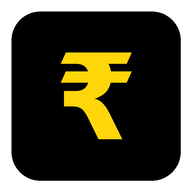
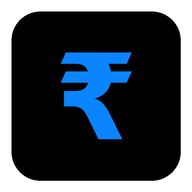
Redesign Tap as a stepped native-style flow; switch accent to blue
The Tap tab now mirrors the iOS Shortcuts add-expense dialogs as a
three-step flow:
  1. "How much did you spend?" — amount field + keypad, Cancel/Next
  2. "Choose a category" — full vertical list with emoji + dividers
  3. "Add a note (optional)" — note field, recap, payment method,
     Credit toggle, receipt attach, Back/Done

Accent switched from yellow to iOS blue (#0A84FF) throughout: tokens,
selected states, buttons, nav, charts and the spend heatmap; a new
--on-accent token keeps text legible on blue fills. App icons
regenerated with a blue ₹.

In-flow keyword auto-detect is dropped (category is now an explicit
step); the Back Tap deep-link still matches/creates categories. Bumps
the service-worker cache to spend-v4.

Claude-Session: https://claude.ai/code/session_01RHJkLpLJcnZQaAFJ6zpLv4

Changed region(s): [[0.3125, 0.25, 0.6875, 0.75]]

diff --git a/docs/index.html b/docs/index.html
@@ -24,8 +24,9 @@
     --text: #FFFFFF;
     --dim: #A1A1A1;
     --faint: #6B6B6B;
-    --accent: #FFD60A;
-    --accent-dim: #4a4210;
+    --accent: #0A84FF;
+    --accent-dim: rgba(10,132,255,.22);
+    --on-accent: #FFFFFF;
     --credit: #32D74B;
     --danger: #FF453A;
     --track: #1C1C1C;
@@ -70,9 +71,9 @@
   .nav button.active { color: var(--accent); }
   .nav .tapbtn .ring { width: 44px; height: 44px; border-radius: 50%; display: flex; align-items: center; justify-content: center; background: var(--surface-alt); transition: background .18s, box-shadow .18s; margin-top: -2px; }
   .nav .tapbtn svg { width: 26px; height: 26px; }
-  .nav .tapbtn.active .ring { background: var(--accent); box-shadow: 0 0 0 4px var(--accent-dim), 0 8px 20px -6px rgba(255,214,10,.5); }
+  .nav .tapbtn.active .ring { background: var(--accent); box-shadow: 0 0 0 4px var(--accent-dim), 0 8px 20px -6px rgba(10,132,255,.5); }
   .nav .tapbtn.active { color: var(--accent); }
-  .nav .tapbtn.active .ring svg { stroke: #000; }
+  .nav .tapbtn.active .ring svg { stroke: var(--on-accent); }
 
   /* generic */
   .h-title { font-size: 30px; font-weight: 800; letter-spacing: -.02em; margin: 0; }
@@ -90,21 +91,46 @@
   .empty .s { font-size: 14px; margin-top: 4px; }
   .sec { color: var(--dim); font-size: 13px; font-weight: 800; text-transform: uppercase; letter-spacing: .06em; margin: 26px 2px 12px; display: flex; justify-content: space-between; align-items: center; }
 
-  /* TAP */
-  .tap { flex: 1; display: flex; flex-direction: column; }
-  .tap-top { padding: calc(env(safe-area-inset-top) + 14px) 18px 0; text-align: center; }
-  .tap-top .q { color: var(--dim); font-size: 15px; font-weight: 600; }
-  .amount { display: flex; align-items: center; justify-content: center; gap: 4px; margin: 6px 0 2px; }
-  .amount .cur { font-size: 32px; font-weight: 700; color: var(--dim); }
-  .amount .val { font-size: 54px; font-weight: 800; letter-spacing: -.03em; font-variant-numeric: tabular-nums; line-height: 1; }
-  .amount.credit .val, .amount.credit .cur { color: var(--credit); }
-  .amount.zero .val, .amount.zero .cur { color: var(--faint); }
+  /* TAP — stepped native-dialog flow */
+  .flow { flex: 1; display: flex; flex-direction: column; }
+  .flow-body { padding: calc(env(safe-area-inset-top) + 22px) 20px 0; }
+  .flow-body.scroll { flex: 1; overflow-y: auto; scrollbar-width: none; }
+  .flow-body.scroll::-webkit-scrollbar { display: none; }
+  .stepdots { display: flex; gap: 6px; justify-content: center; margin-bottom: 20px; }
+  .stepdots i { width: 7px; height: 7px; border-radius: 50%; background: var(--border); transition: .25s; }
+  .stepdots i.on { background: var(--accent); width: 20px; }
+  .flow-title { font-size: 25px; font-weight: 800; text-align: center; letter-spacing: -.02em; margin: 0 0 20px; text-wrap: balance; }
+  .amount-field { background: var(--surface-alt); border-radius: 16px; padding: 22px 18px; display: flex; align-items: center; justify-content: center; gap: 6px; }
+  .amount-field .cur { font-size: 28px; font-weight: 700; color: var(--dim); }
+  .amount-field .val { font-size: 46px; font-weight: 800; letter-spacing: -.02em; font-variant-numeric: tabular-nums; line-height: 1; }
+  .amount-field.zero .val, .amount-field.zero .cur { color: var(--faint); }
+  .amount-field.credit .val, .amount-field.credit .cur { color: var(--credit); }
+  .flow-bottom { margin-top: auto; padding: 12px 14px 4px; }
+  .flow-actions { display: flex; gap: 10px; margin-top: 12px; }
+  .pill { flex: 1; padding: 15px; border-radius: 14px; border: none; font-size: 16px; font-weight: 800; cursor: pointer; transition: opacity .18s, transform .08s; }
+  .pill:active { transform: scale(.99); }
+  .pill.ghost { background: var(--surface-alt); color: var(--text); }
+  .pill.blue { background: var(--accent); color: var(--on-accent); }
+  .pill.blue:disabled { opacity: .4; cursor: default; }
+  .cat-list { display: flex; flex-direction: column; background: var(--surface-alt); border-radius: 16px; overflow: hidden; }
+  .cat-item { display: flex; align-items: center; gap: 14px; padding: 15px 16px; background: none; border: none; border-bottom: 1px solid var(--border); color: var(--text); font-size: 17px; font-weight: 600; cursor: pointer; text-align: left; width: 100%; }
+  .cat-item:last-child { border-bottom: none; }
+  .cat-item:active { background: var(--elev); }
+  .cat-item .ci { font-size: 22px; width: 26px; text-align: center; flex: none; }
+  .cat-item .cn { flex: 1; min-width: 0; }
+  .cat-item.sel { color: var(--accent); }
+  .cat-item .chk { color: var(--accent); font-weight: 800; font-size: 18px; }
+  .flow-input { width: 100%; background: var(--surface-alt); border: none; border-radius: 16px; color: var(--text); font-size: 18px; padding: 18px; }
+  .flow-input::placeholder { color: var(--faint); }
+  .flow-recap { display: flex; align-items: center; justify-content: center; gap: 8px; color: var(--dim); font-size: 14px; margin-top: 18px; }
+  .flow-recap b { color: var(--text); font-weight: 700; }
+  .flow-recap .em { font-size: 18px; }
 
   .chips { display: flex; gap: 9px; overflow-x: auto; padding: 6px 18px 2px; scrollbar-width: none; scroll-snap-type: x proximity; }
   .chips::-webkit-scrollbar { display: none; }
   .chip { flex: none; scroll-snap-align: start; display: flex; align-items: center; gap: 7px; background: var(--surface); border: 1.5px solid var(--border); color: var(--dim); padding: 9px 15px; border-radius: 999px; font-size: 14px; font-weight: 600; cursor: pointer; white-space: nowrap; transition: border-color .16s, color .16s, background .16s; }
   .chip .e { font-size: 17px; }
-  .chip.sel { border-color: var(--accent); color: var(--text); background: var(--surface-alt); box-shadow: 0 0 0 3px var(--accent-dim), 0 0 14px -2px rgba(255,214,10,.35); }
+  .chip.sel { border-color: var(--accent); color: var(--text); background: var(--surface-alt); box-shadow: 0 0 0 3px var(--accent-dim), 0 0 14px -2px rgba(10,132,255,.45); }
 
   .noterow { padding: 10px 18px 0; display: flex; gap: 8px; align-items: center; }
   .noteinput { flex: 1; background: var(--surface); border: 1px solid var(--border); border-radius: 12px; color: var(--text); font-size: 15px; padding: 12px 14px; }
@@ -138,7 +164,7 @@
   .key.fn { color: var(--dim); }
   .key svg { width: 26px; height: 26px; stroke: currentColor; fill: none; stroke-width: 2; stroke-linecap: round; stroke-linejoin: round; }
 
-  .save-btn { width: 100%; margin-top: 10px; padding: 16px; border-radius: 16px; border: none; background: var(--accent); color: #000; font-size: 17px; font-weight: 800; cursor: pointer; display: flex; align-items: center; justify-content: center; gap: 8px; transition: opacity .18s, transform .08s; }
+  .save-btn { width: 100%; margin-top: 10px; padding: 16px; border-radius: 16px; border: none; background: var(--accent); color: var(--on-accent); font-size: 17px; font-weight: 800; cursor: pointer; display: flex; align-items: center; justify-content: center; gap: 8px; transition: opacity .18s, transform .08s; }
   .save-btn:active { transform: scale(.99); }
   .save-btn.credit { background: var(--credit); color: #04220c; }
   .save-btn:disabled { opacity: .3; cursor: default; }
@@ -150,7 +176,7 @@
   .searchbox input::placeholder { color: var(--faint); }
   .filters { display: flex; gap: 8px; margin-top: 14px; }
   .filter { flex: 1; border: 1px solid var(--border); background: var(--surface); color: var(--dim); padding: 9px 4px; border-radius: 999px; font-size: 13px; font-weight: 700; cursor: pointer; transition: .16s; }
-  .filter.sel { background: var(--accent); border-color: var(--accent); color: #000; }
+  .filter.sel { background: var(--accent); border-color: var(--accent); color: var(--on-accent); }
   .daygroup { margin-top: 22px; }
   .dayhead { display: flex; align-items: baseline; justify-content: space-between; margin-bottom: 10px; padding: 0 2px; }
   .dayhead .d { color: var(--dim); font-size: 12px; font-weight: 800; letter-spacing: .07em; }
@@ -180,7 +206,7 @@
   /* ANALYTICS */
   .seg { display: flex; gap: 6px; background: var(--surface); border: 1px solid var(--border); border-radius: 12px; padding: 4px; margin-top: 16px; }
   .seg button { flex: 1; border: none; background: none; color: var(--dim); font-size: 13px; font-weight: 700; padding: 8px 4px; border-radius: 9px; cursor: pointer; transition: .16s; }
-  .seg button.sel { background: var(--accent); color: #000; }
+  .seg button.sel { background: var(--accent); color: var(--on-accent); }
   .bigstat { text-align: center; margin: 22px 0 6px; }
   .bigstat .l { color: var(--dim); font-size: 12px; font-weight: 700; letter-spacing: .08em; text-transform: uppercase; }
   .bigstat .v { font-size: 44px; font-weight: 800; letter-spacing: -.02em; font-variant-numeric: tabular-nums; margin-top: 4px; }
@@ -199,7 +225,7 @@
   .chart { display: flex; align-items: flex-end; gap: 7px; height: 130px; padding: 0 2px; }
   .chart .col { flex: 1; display: flex; flex-direction: column; align-items: center; justify-content: flex-end; height: 100%; }
   .chart .col .b { width: 68%; min-width: 6px; border-radius: 7px 7px 3px 3px; background: var(--accent); transition: height .4s cubic-bezier(.4,0,.2,1); }
-  .chart .col .b.dim { background: #33300f; }
+  .chart .col .b.dim { background: #10365e; }
   .chartx { display: flex; gap: 7px; margin-top: 8px; }
   .chartx span { flex: 1; text-align: center; color: var(--faint); font-size: 11px; font-weight: 600; }
   .heat { display: grid; grid-template-columns: repeat(7, 1fr); gap: 5px; }
@@ -242,7 +268,7 @@
   .sheet-actions { display: flex; gap: 10px; margin-top: 24px; }
   .btn { flex: 1; padding: 15px; border-radius: 14px; border: none; font-size: 16px; font-weight: 800; cursor: pointer; }
   .btn:active { transform: scale(.99); }
-  .btn-save { background: var(--accent); color: #000; }
+  .btn-save { background: var(--accent); color: var(--on-accent); }
   .btn-save:disabled { opacity: .4; }
   .btn-ghost { background: var(--surface-alt); color: var(--text); border: 1px solid var(--border); }
   .btn-del { background: transparent; border: 1px solid var(--danger); color: var(--danger); flex: none; width: 56px; display: flex; align-items: center; justify-content: center; }
@@ -299,7 +325,7 @@
   .ob-feat .ft .d { color: var(--dim); font-size: 13px; margin-top: 1px; }
 
   /* toast + undo */
-  .toast { position: absolute; left: 50%; bottom: calc(env(safe-area-inset-bottom) + 92px); transform: translateX(-50%) translateY(14px); background: var(--accent); color: #000; font-weight: 800; font-size: 14px; padding: 11px 20px; border-radius: 999px; opacity: 0; pointer-events: none; transition: opacity .25s, transform .25s; z-index: 70; box-shadow: 0 10px 30px -8px rgba(255,214,10,.4); }
+  .toast { position: absolute; left: 50%; bottom: calc(env(safe-area-inset-bottom) + 92px); transform: translateX(-50%) translateY(14px); background: var(--accent); color: var(--on-accent); font-weight: 800; font-size: 14px; padding: 11px 20px; border-radius: 999px; opacity: 0; pointer-events: none; transition: opacity .25s, transform .25s; z-index: 70; box-shadow: 0 10px 30px -8px rgba(10,132,255,.45); }
   .toast.show { opacity: 1; transform: translateX(-50%) translateY(0); }
   .toast.credit { background: var(--credit); color: #04220c; }
   .undobar { position: absolute; left: 16px; right: 16px; bottom: calc(env(safe-area-inset-bottom) + 90px); background: var(--elev); border: 1px solid var(--border); border-radius: 14px; padding: 13px 16px; display: flex; align-items: center; justify-content: space-between; opacity: 0; transform: translateY(14px); pointer-events: none; transition: opacity .25s, transform .25s; z-index: 70; box-shadow: 0 14px 40px -12px #000; }
@@ -481,7 +507,7 @@
   const undotext = document.getElementById('undotext');
   const fileImport = document.getElementById('fileImport');
   const fileReceipt = document.getElementById('fileReceipt');
-  const ui = { tab: 'tap', entry: '', cat: null, catManual: false, credit: false, note: '', method: methods()[0], receipt: null, filter: 'today', search: '', searchOpen: false, period: 'month' };
+  const ui = { tab: 'tap', step: 1, entry: '', cat: null, credit: false, note: '', method: methods()[0], receipt: null, filter: 'today', search: '', searchOpen: false, period: 'month' };
 
   let toastT; function toast(msg, credit) { toastEl.textContent = msg; toastEl.classList.toggle('credit', !!credit); toastEl.classList.add('show'); clearTimeout(toastT); toastT = setTimeout(() => toastEl.classList.remove('show'), 1400); }
   const vibrate = ms => { if (navigator.vibrate) { try { navigator.vibrate(ms); } catch (e) {} } };
@@ -502,60 +528,94 @@
   function recentNotes() { const seen = new Set(); const out = []; const sorted = [...S.expenses].sort((a, b) => b.ts - a.ts); for (const e of sorted) { const n = (e.note || '').trim(); if (n && !seen.has(n.toLowerCase())) { seen.add(n.toLowerCase()); out.push(n); } if (out.length >= 5) break; } return out; }
   function frequentAmounts() { const cnt = {}; for (const e of debits(S.expenses)) cnt[e.amount] = (cnt[e.amount] || 0) + 1; const arr = Object.keys(cnt).map(Number).sort((a, b) => cnt[b] - cnt[a]); const top = arr.slice(0, 4); return top.length ? top : [100, 200, 500]; }
 
+  // Three-step flow modelled on the iOS Shortcuts dialogs:
+  //   1 amount → 2 choose a category → 3 add a note (+ credit / method / receipt)
+  function dots(step) { return `<div class="stepdots">${[1, 2, 3].map(i => `<i class="${i <= step ? 'on' : ''}"></i>`).join('')}</div>`; }
   function renderTap() {
     if (ui.method == null || !methods().includes(ui.method)) ui.method = methods()[0];
-    const notes = recentNotes();
+    if (!ui.step) ui.step = 1;
+    if (ui.step === 2) return renderTapCat();
+    if (ui.step === 3) return renderTapNote();
+    return renderTapAmount();
+  }
+  function renderTapAmount() {
     const amts = frequentAmounts();
-    return `<div class="tap">
-      <div class="tap-top">
-        <div class="q">How much?</div>
-        <div class="amount" id="amt"><span class="cur">${esc(cur())}</span><span class="val">0</span></div>
+    return `<div class="flow">
+      <div class="flow-body">
+        ${dots(1)}
+        <div class="flow-title">How much did you spend?</div>
+        <div class="amount-field zero" id="amt"><span class="cur">${esc(cur())}</span><span class="val">0</span></div>
+        <div class="quickrow" style="justify-content:center;padding:14px 0 0">${amts.map(a => `<button class="qchip amt" data-act="qamt" data-a="${a}">${esc(cur())}${fmtNum(a)}</button>`).join('')}</div>
       </div>
-      <div class="chips" id="chips">${catChips(ui.cat, 'cat')}</div>
-      <div class="noterow">
-        <input class="noteinput" id="noteInput" maxlength="60" placeholder="＋  Add note (e.g. KFC)" value="${esc(ui.note)}">
-        <button class="clip ${ui.receipt ? 'has' : ''}" data-act="receipt" aria-label="Attach receipt">${ui.receipt ? `<img src="${ui.receipt}" alt="">` : `<svg viewBox="0 0 24 24"><path d="M21.4 11.05 12.25 20.2a5 5 0 0 1-7.07-7.07l9.2-9.19a3 3 0 0 1 4.24 4.24l-9.2 9.19a1 1 0 0 1-1.41-1.41l8.48-8.49"/></svg>`}</button>
-      </div>
-      <div class="notehint" id="noteHint"></div>
-      ${(notes.length || amts.length) ? `<div class="quickrow">
-        ${amts.map(a => `<button class="qchip amt" data-act="qamt" data-a="${a}">${esc(cur())}${fmtNum(a)}</button>`).join('')}
-        ${notes.map(n => `<button class="qchip" data-act="qnote" data-n="${esc(n)}">${esc(n)}</button>`).join('')}
-      </div>` : ''}
-      <div class="keypad-wrap">
-        ${methods().length > 1 ? `<div class="method-row" id="methods">${methodChips(ui.method, 'method')}</div>` : ''}
-        <div class="credit-toggle ${ui.credit ? 'on' : ''}" data-act="credit"><span>Credit</span><span class="sw"><i></i></span></div>
+      <div class="flow-bottom">
         <div class="keypad">
           ${[1,2,3,4,5,6,7,8,9].map(k => `<button class="key" data-act="key" data-k="${k}">${k}</button>`).join('')}
           <button class="key fn" data-act="key" data-k=".">.</button>
           <button class="key" data-act="key" data-k="0">0</button>
           <button class="key fn" data-act="back" aria-label="Delete"><svg viewBox="0 0 24 24"><path d="M20 5H8.5a2 2 0 0 0-1.5.7L2.5 11a1.4 1.4 0 0 0 0 2l4.5 5.3a2 2 0 0 0 1.5.7H20a2 2 0 0 0 2-2V7a2 2 0 0 0-2-2z"/><path d="M17 9l-6 6M11 9l6 6"/></svg></button>
         </div>
-        <button class="save-btn" id="saveBtn" data-act="save">Save expense</button>
+        <div class="flow-actions">
+          <button class="pill ghost" data-act="flowcancel">Cancel</button>
+          <button class="pill blue" id="nextBtn" data-act="flownext">Next</button>
+        </div>
       </div>
     </div>`;
   }
+  function renderTapCat() {
+    return `<div class="flow">
+      <div class="flow-body scroll">
+        ${dots(2)}
+        <div class="flow-title">Choose a category</div>
+        <div class="cat-list">${getCats().map(c => `<button class="cat-item ${c.n === ui.cat ? 'sel' : ''}" data-act="pickcat" data-n="${esc(c.n)}"><span class="ci">${c.e}</span><span class="cn">${esc(c.n)}</span>${c.n === ui.cat ? '<span class="chk">✓</span>' : ''}</button>`).join('')}</div>
+        <div style="height:12px"></div>
+      </div>
+      <div class="flow-bottom"><div class="flow-actions"><button class="pill ghost" data-act="flowback">Back</button></div></div>
+    </div>`;
+  }
+  function renderTapNote() {
+    const c = catOf(ui.cat); const notes = recentNotes();
+    return `<div class="flow">
+      <div class="flow-body scroll">
+        ${dots(3)}
+        <div class="flow-title">Add a note <span style="color:var(--faint);font-weight:600">(optional)</span></div>
+        <input class="flow-input" id="noteInput" maxlength="60" placeholder="Note" value="${esc(ui.note)}">
+        ${notes.length ? `<div class="quickrow" style="padding:12px 0 0">${notes.map(n => `<button class="qchip" data-act="qnote" data-n="${esc(n)}">${esc(n)}</button>`).join('')}</div>` : ''}
+        <div class="flow-recap"><span class="em">${c.e}</span><b>${esc(c.n)}</b> · <b>${ui.credit ? '+' : ''}${rupee(parseFloat(ui.entry) || 0)}</b></div>
+        <div style="margin-top:18px" class="method-row">${methods().length > 1 ? methodChips(ui.method, 'method') : ''}</div>
+        <div class="credit-toggle ${ui.credit ? 'on' : ''}" data-act="credit" style="margin:14px auto 0"><span>Credit (money received)</span><span class="sw"><i></i></span></div>
+        <div style="display:flex;justify-content:center;margin-top:14px">
+          <button class="clip ${ui.receipt ? 'has' : ''}" data-act="receipt" aria-label="Attach receipt" style="width:auto;padding:9px 16px;gap:8px;border-radius:999px;font-size:13px;font-weight:700;color:${ui.receipt ? 'var(--accent)' : 'var(--dim)'}">${ui.receipt ? '📎 Receipt attached' : '📎 Attach receipt'}</button>
+        </div>
+      </div>
+      <div class="flow-bottom"><div class="flow-actions">
+        <button class="pill ghost" data-act="flowback">Back</button>
+        <button class="pill blue" data-act="flowdone">Done</button>
+      </div></div>
+    </div>`;
+  }
   function updateTap() {
-    const amt = document.getElementById('amt'), btn = document.getElementById('saveBtn'); if (!amt || !btn) return;
+    if (ui.step !== 1) return;
+    const amt = document.getElementById('amt'), btn = document.getElementById('nextBtn'); if (!amt) return;
     const v = parseFloat(ui.entry) || 0;
     amt.querySelector('.val').textContent = fmtEntry(ui.entry);
     amt.classList.toggle('credit', ui.credit); amt.classList.toggle('zero', v <= 0);
-    btn.classList.toggle('credit', ui.credit); btn.disabled = !(v > 0 && ui.cat);
-    btn.textContent = ui.credit ? 'Save credit' : 'Save expense';
+    if (btn) btn.disabled = !(v > 0);
   }
   function tapKey(k) {
     if (k === '.') { if (!ui.entry.includes('.')) ui.entry = (ui.entry || '0') + '.'; }
     else { if (ui.entry.includes('.')) { if (ui.entry.split('.')[1].length >= 2) return; } else if (ui.entry.replace('.', '').length >= 9) return; if (ui.entry === '0') ui.entry = ''; ui.entry += k; }
     updateTap();
   }
+  function resetDraft() { ui.entry = ''; ui.cat = null; ui.credit = false; ui.note = ''; ui.receipt = null; ui.step = 1; }
   function tapSave() {
-    const v = parseFloat(ui.entry) || 0; if (!(v > 0) || !ui.cat) return;
+    const v = parseFloat(ui.entry) || 0; if (!(v > 0) || !ui.cat) { toast('Add an amount & category'); return; }
     const noteEl = document.getElementById('noteInput');
     const exp = { id: S.nextId++, amount: v, cat: ui.cat, note: (noteEl ? noteEl.value : ui.note).trim(), credit: !!ui.credit, method: ui.method || methods()[0], ts: Date.now() };
     if (ui.receipt) exp.receipt = ui.receipt;
     S.expenses.push(exp);
     if (!save()) { S.expenses.pop(); S.nextId--; toast('Storage full — remove a receipt'); return; }
     const wasCredit = ui.credit;
-    ui.entry = ''; ui.cat = null; ui.catManual = false; ui.credit = false; ui.note = ''; ui.receipt = null;
+    resetDraft();
     render(); toast(wasCredit ? '✓ Credit saved' : '✓ Expense saved', wasCredit); vibrate(18);
   }
 
@@ -651,7 +711,7 @@
     const daySpend = {}; for (const e of debits(S.expenses)) if (monthKey(e.ts) === thisMk) daySpend[new Date(e.ts).getDate()] = (daySpend[new Date(e.ts).getDate()] || 0) + Number(e.amount);
     const hmMax = Math.max(1, ...Object.values(daySpend));
     let cells = ''; for (let i = 0; i < firstWd; i++) cells += `<div class="cell blank"></div>`;
-    for (let dd = 1; dd <= hmDays; dd++) { const v = daySpend[dd] || 0; const intensity = v > 0 ? 0.22 + (v / hmMax) * 0.78 : 0; const bg = v > 0 ? `rgba(255,214,10,${intensity.toFixed(2)})` : 'var(--track)'; const isToday = dd === now.getDate(); const col = intensity > 0.55 ? '#000' : 'var(--faint)'; cells += `<div class="cell ${isToday ? 'today' : ''}" style="background:${bg};color:${col}">${dd}</div>`; }
+    for (let dd = 1; dd <= hmDays; dd++) { const v = daySpend[dd] || 0; const intensity = v > 0 ? 0.22 + (v / hmMax) * 0.78 : 0; const bg = v > 0 ? `rgba(10,132,255,${intensity.toFixed(2)})` : 'var(--track)'; const isToday = dd === now.getDate(); const col = intensity > 0.5 ? '#fff' : 'var(--faint)'; cells += `<div class="cell ${isToday ? 'today' : ''}" style="background:${bg};color:${col}">${dd}</div>`; }
 
     return `<div class="pad">
       <div class="row-between"><div><h1 class="h-title">Analytics</h1><p class="h-sub">Where your money goes</p></div>
@@ -664,7 +724,7 @@
       ${insights.length ? `<div class="sec">Insights</div><div class="card">${insights.map(i => `<div class="insight"><span class="ic">${i.ic}</span><span class="tx">${i.t}<div class="m">${i.m}</div></span></div>`).join('')}</div>` : ''}
       <div class="sec">Last 7 days</div><div class="card"><div class="chart">${days.map((x, i) => `<div class="col"><div class="b ${i === days.length - 1 ? '' : 'dim'}" style="height:${Math.max(4, (x.v / dMax) * 108)}px" title="${rupee(x.v)}"></div></div>`).join('')}</div><div class="chartx">${days.map(x => `<span>${x.l}</span>`).join('')}</div></div>
       <div class="sec">Last 6 months</div><div class="card"><div class="chart">${mons.map((x, i) => `<div class="col"><div class="b ${i === mons.length - 1 ? '' : 'dim'}" style="height:${Math.max(4, (x.v / monMax) * 108)}px" title="${rupee(x.v)}"></div></div>`).join('')}</div><div class="chartx">${mons.map(x => `<span>${x.l}</span>`).join('')}</div></div>
-      <div class="sec">${MOF[hmM]} heatmap</div><div class="card"><div class="heat">${WDS.map(w => `<div class="hd">${w[0]}</div>`).join('')}${cells}</div><div class="heatleg">Less <i style="background:var(--track)"></i><i style="background:rgba(255,214,10,.4)"></i><i style="background:rgba(255,214,10,.7)"></i><i style="background:rgba(255,214,10,1)"></i> More</div></div>
+      <div class="sec">${MOF[hmM]} heatmap</div><div class="card"><div class="heat">${WDS.map(w => `<div class="hd">${w[0]}</div>`).join('')}${cells}</div><div class="heatleg">Less <i style="background:var(--track)"></i><i style="background:rgba(10,132,255,.4)"></i><i style="background:rgba(10,132,255,.7)"></i><i style="background:rgba(10,132,255,1)"></i> More</div></div>
       <div class="sec">By category</div>
       ${catsArr.length === 0 ? `<div class="card"><div class="empty" style="padding:24px 8px"><div class="em">📊</div><div class="s" style="margin-top:8px">No spending ${label}.</div></div></div>`
         : `<div class="card">${catsArr.map(c => { const cc = catOf(c.n); const cb = (p === 'month') ? (Number(S.settings.catBudgets[c.n]) || 0) : 0; const cover = cb > 0 && c.v > cb;
@@ -927,13 +987,16 @@
     const el = e.target.closest('[data-act]'); if (!el) return; const act = el.dataset.act;
     if (act === 'key') tapKey(el.dataset.k);
     else if (act === 'back') { ui.entry = ui.entry.slice(0, -1); updateTap(); vibrate(8); }
-    else if (act === 'save') tapSave();
-    else if (act === 'cat') { ui.cat = ui.cat === el.dataset.n ? null : el.dataset.n; ui.catManual = true; setNoteHint(''); syncChips('chips', ui.cat, 'cat'); updateTap(); vibrate(6); }
-    else if (act === 'credit') { ui.credit = !ui.credit; el.classList.toggle('on', ui.credit); updateTap(); }
-    else if (act === 'method') { ui.method = el.dataset.m; syncChips('methods', ui.method, 'method', 'm'); }
+    else if (act === 'flownext') { if ((parseFloat(ui.entry) || 0) > 0) { ui.step = 2; render(); vibrate(6); } }
+    else if (act === 'flowback') { if (ui.step === 3) { ui.note = (document.getElementById('noteInput') || {}).value || ui.note; } ui.step = Math.max(1, ui.step - 1); render(); }
+    else if (act === 'flowcancel') { resetDraft(); render(); }
+    else if (act === 'pickcat') { ui.cat = el.dataset.n; ui.step = 3; render(); vibrate(6); }
+    else if (act === 'flowdone') tapSave();
+    else if (act === 'credit') { ui.note = (document.getElementById('noteInput') || {}).value || ui.note; ui.credit = !ui.credit; render(); }
+    else if (act === 'method') { ui.note = (document.getElementById('noteInput') || {}).value || ui.note; ui.method = el.dataset.m; render(); }
     else if (act === 'qamt') { ui.entry = String(el.dataset.a); updateTap(); vibrate(6); }
-    else if (act === 'qnote') { ui.note = el.dataset.n; const inp = document.getElementById('noteInput'); if (inp) inp.value = ui.note; if (!ui.catManual) { const g = guessCategory(ui.note); if (g) { ui.cat = g; syncChips('chips', ui.cat, 'cat'); updateTap(); setNoteHint('✨ Auto-set to ' + g); } } }
-    else if (act === 'receipt') { receiptTarget = 'tap'; fileReceipt.click(); }
+    else if (act === 'qnote') { ui.note = el.dataset.n; const inp = document.getElementById('noteInput'); if (inp) inp.value = ui.note; }
+    else if (act === 'receipt') { ui.note = (document.getElementById('noteInput') || {}).value || ui.note; receiptTarget = 'tap'; fileReceipt.click(); }
     else if (act === 'togglesearch') { ui.searchOpen = !ui.searchOpen; if (!ui.searchOpen) ui.search = ''; render(); const inp = document.getElementById('searchInput'); if (inp && ui.searchOpen) inp.focus(); }
     else if (act === 'filter') { ui.filter = el.dataset.f; render(); }
     else if (act === 'edit') openEdit(Number(el.dataset.id));
@@ -942,14 +1005,9 @@
   });
   screen.addEventListener('input', e => {
     if (e.target.id === 'searchInput') { ui.search = e.target.value; renderHistoryList(); return; }
-    if (e.target.id !== 'noteInput') return;
-    ui.note = e.target.value; if (ui.catManual) return;
-    const g = guessCategory(ui.note);
-    if (g && g !== ui.cat) { ui.cat = g; syncChips('chips', ui.cat, 'cat'); updateTap(); const sel = document.querySelector('#chips .chip.sel'); if (sel) sel.scrollIntoView({ behavior: 'smooth', inline: 'center', block: 'nearest' }); setNoteHint('✨ Auto-set to ' + g + ' — tap a chip to change'); }
-    else if (!g && !ui.cat) setNoteHint('');
+    if (e.target.id === 'noteInput') ui.note = e.target.value;
   });
   function renderHistoryList() { /* light re-render of list only, keep search focus */ const inner = screen.querySelector('.screen-inner'); if (!inner) { render(); return; } const scroll = screen.scrollTop; render(); const inp = document.getElementById('searchInput'); if (inp) { inp.focus(); inp.setSelectionRange(inp.value.length, inp.value.length); } screen.scrollTop = scroll; }
-  function setNoteHint(t) { const h = document.getElementById('noteHint'); if (!h) return; h.textContent = t || ''; h.classList.toggle('show', !!t); }
   function syncChips(id, sel, act, dataAttr) { const box = document.getElementById(id); if (!box) return; const key = dataAttr || 'n'; [...box.children].forEach(c => c.classList.toggle('sel', c.dataset[key] === sel)); }
 
   overlay.addEventListener('click', e => {

diff --git a/docs/sw.js b/docs/sw.js
@@ -2,7 +2,7 @@
    Network-first so updates arrive when online, with a cache fallback so the app
    keeps working with no connection. The app itself is a single self-contained
    file, so caching the shell + icons is enough. */
-const CACHE = 'spend-v3';
+const CACHE = 'spend-v4';
 const ASSETS = [
   './',
   './index.html',
